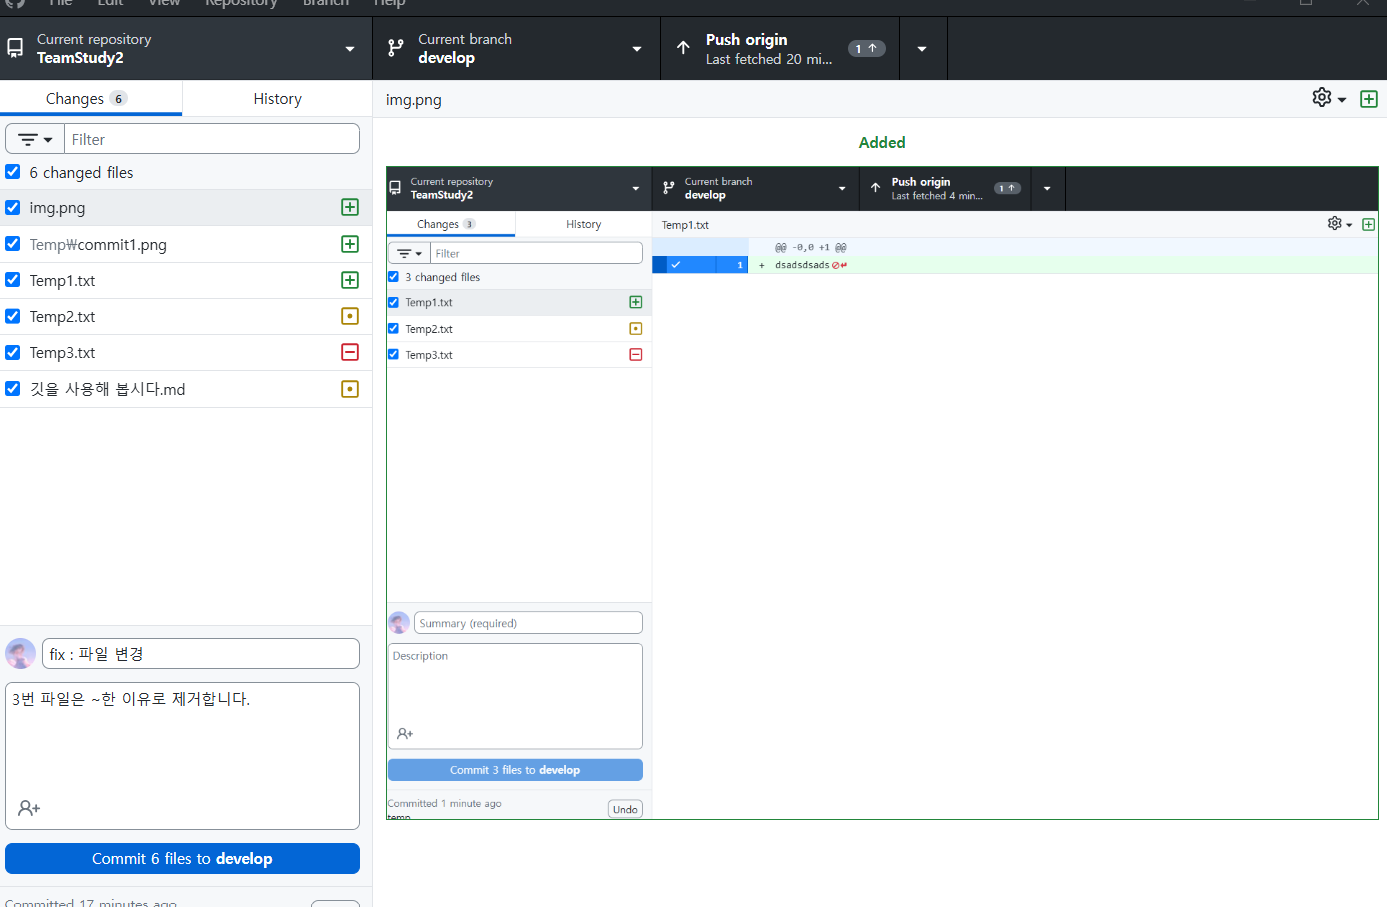
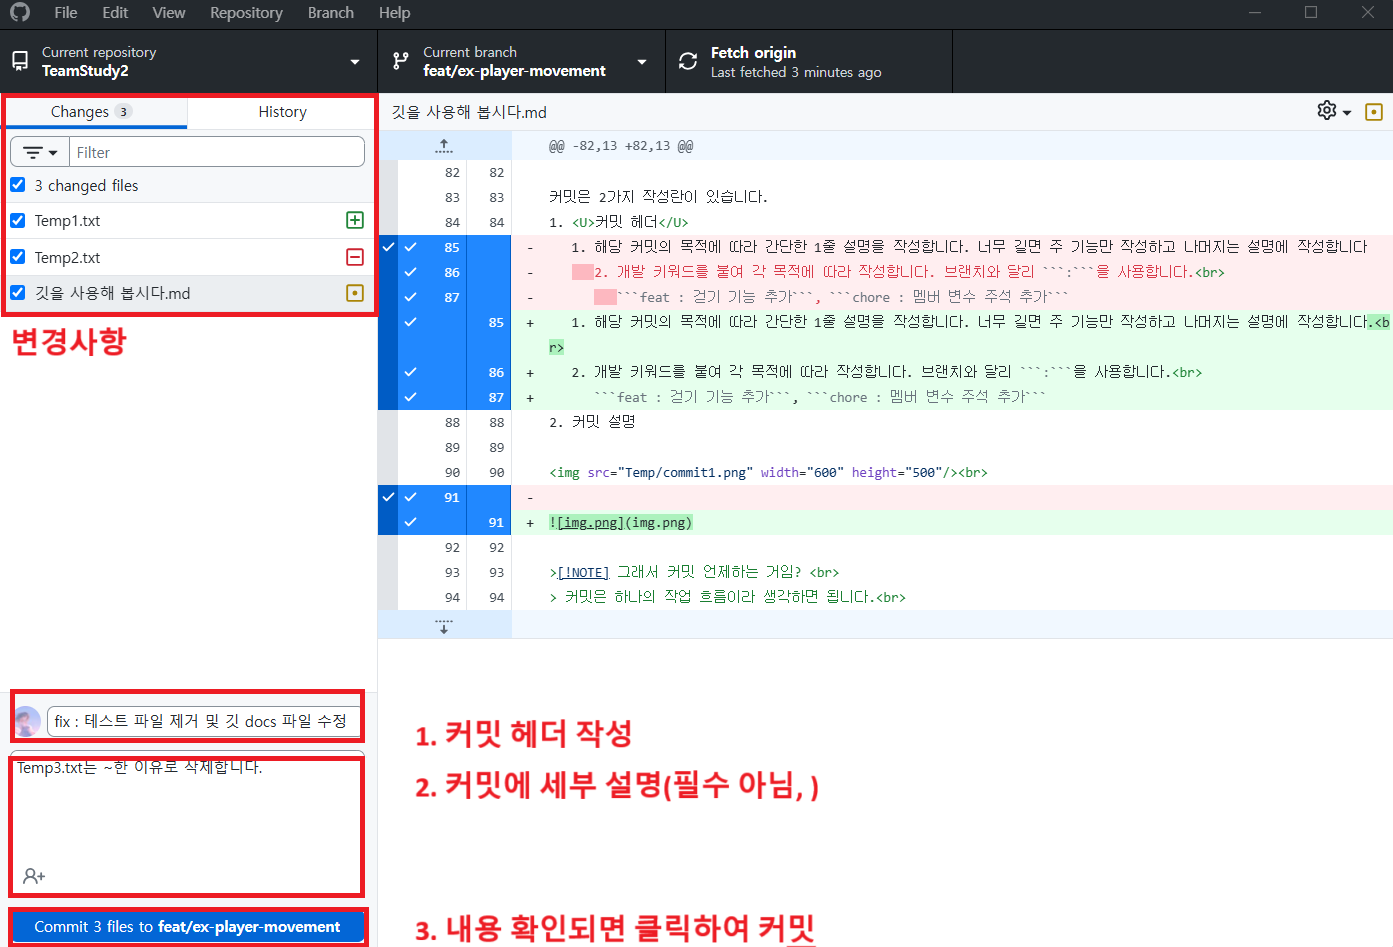
fix : 테스트 파일 제거 및 깃 docs 파일 수정
Temp3.txt는 ~한 이유로 삭제합니다.

Changed region(s): [[0.0, 0.0, 1.0, 1.0], [0.9921, 0.6483, 1.0, 0.6792]]

diff --git a/깃을 사용해 봅시다.md b/깃을 사용해 봅시다.md
@@ -82,13 +82,13 @@
 
 커밋은 2가지 작성란이 있습니다.
 1. <U>커밋 헤더</U>
-   1. 해당 커밋의 목적에 따라 간단한 1줄 설명을 작성합니다. 너무 길면 주 기능만 작성하고 나머지는 설명에 작성합니다
-      2. 개발 키워드를 붙여 각 목적에 따라 작성합니다. 브랜치와 달리 ```:```을 사용합니다.<br>
-         ```feat : 걷기 기능 추가```, ```chore : 멤버 변수 주석 추가```
+   1. 해당 커밋의 목적에 따라 간단한 1줄 설명을 작성합니다. 너무 길면 주 기능만 작성하고 나머지는 설명에 작성합니다.<br>
+   2. 개발 키워드를 붙여 각 목적에 따라 작성합니다. 브랜치와 달리 ```:```을 사용합니다.<br>
+      ```feat : 걷기 기능 추가```, ```chore : 멤버 변수 주석 추가```
 2. 커밋 설명
 
 <img src="Temp/commit1.png" width="600" height="500"/><br>
-
+![img.png](img.png)
 
 >[!NOTE] 그래서 커밋 언제하는 거임? <br>
 > 커밋은 하나의 작업 흐름이라 생각하면 됩니다.<br>
